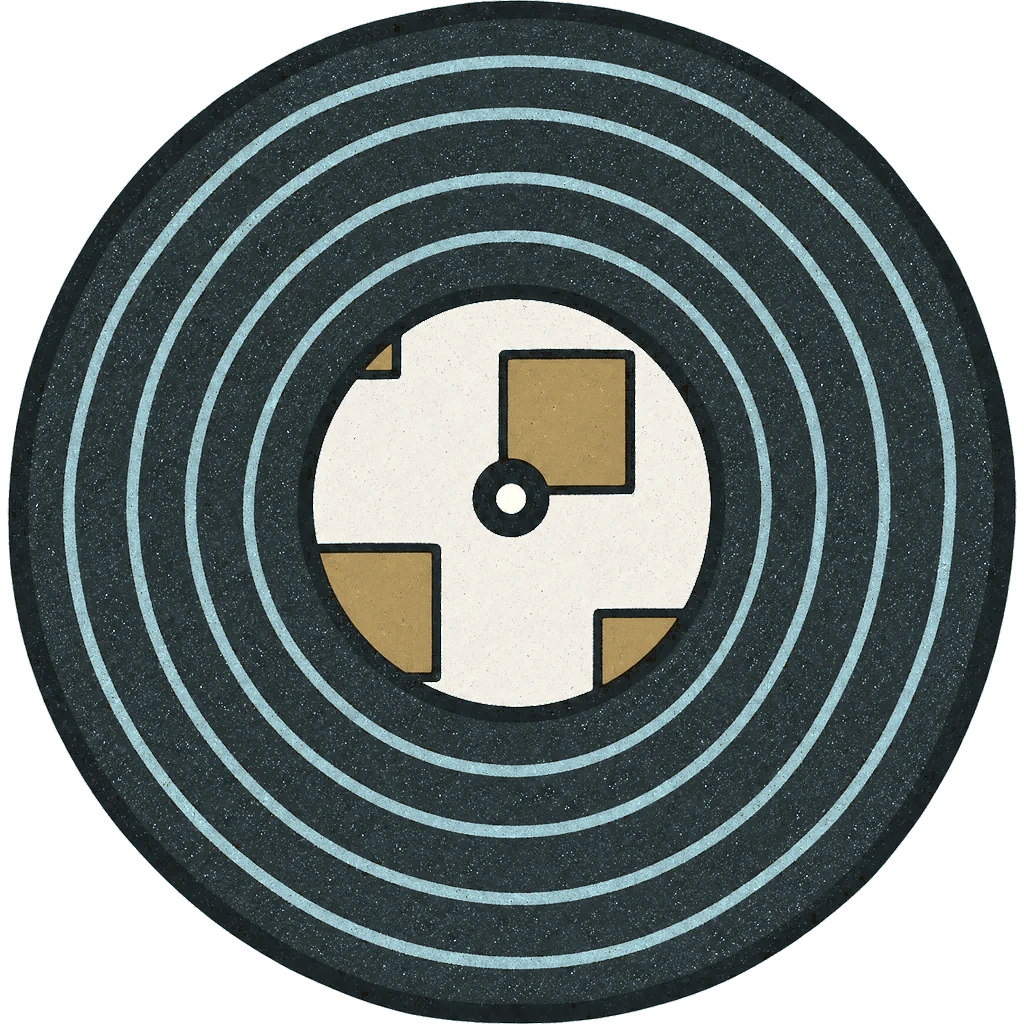
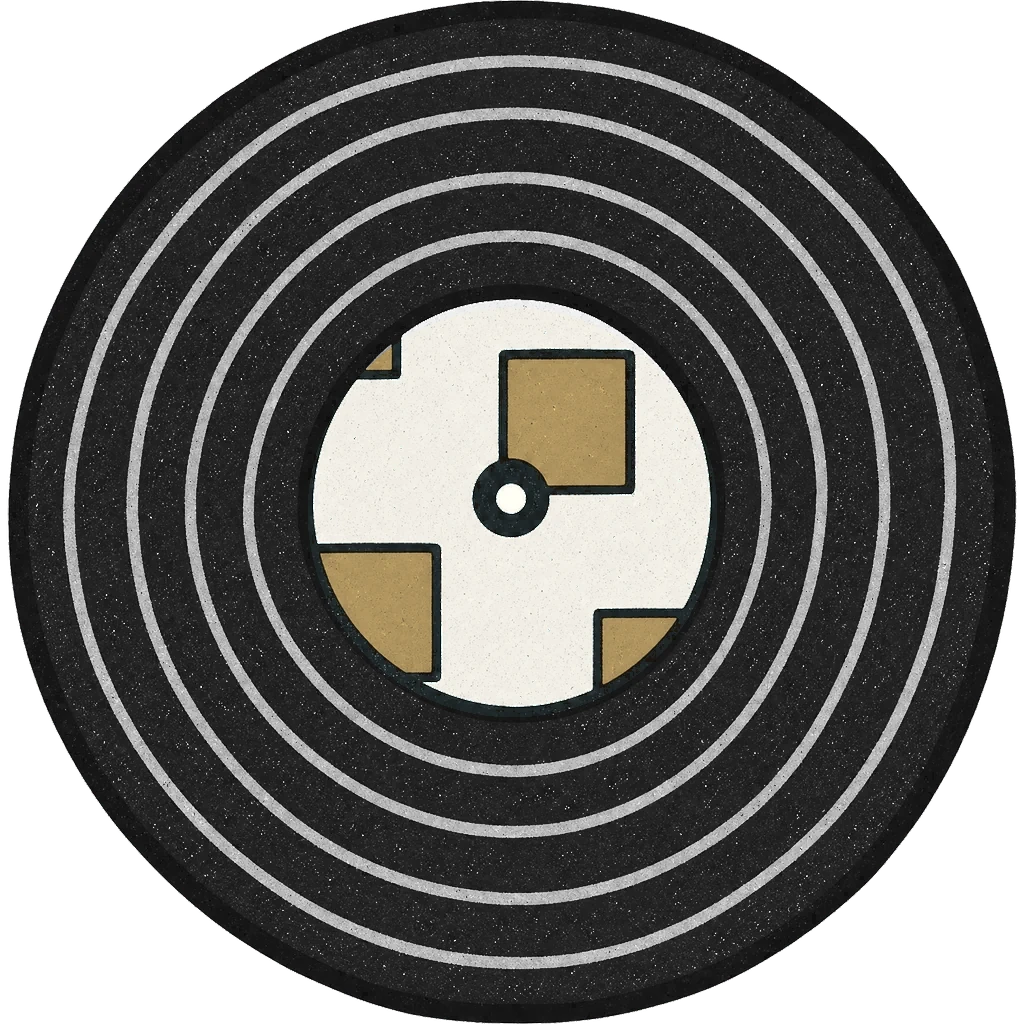
A neutral black record with grey rings
Claude-Session: https://claude.ai/code/session_01EmtaLy7HU6RToKMH5GCFKA

Changed region(s): [[0.0312, 0.0, 0.9688, 1.0]]

diff --git a/tools/vinyl_art.py b/tools/vinyl_art.py
@@ -45,6 +45,18 @@ def recolour(src, dst, warm, warm_from):
 
 # The deck itself is drawn in code now (vinyl-player.js, THE DECK DRAWN IN CODE), so no plinth.webp is made.
 recolour(kit / "record.webp", "record.webp", OCHRE, (210, 112, 40))  # the label's orange squares
+
+# A NEUTRAL BLACK RECORD: "Yeah neutral black record" (Carl, 11 Nov 2026), asked whether it should be the page's charcoal,
+# which leans blue-green, its rings more so. Outside the label (covered by the song's cover anyway) every colour goes
+# grey, keeping its lightness, and the vinyl's own middle tone becomes #222.
+r = np.array(Image.open(out / "record.webp").convert("RGBA")).astype(float)
+h, w = r.shape[:2]; yy, xx = np.mgrid[:h, :w]; rad = np.hypot(xx - w / 2, yy - h / 2) / (w / 2)
+outside = (rad > 0.40) & (r[..., 3] > 0)
+g = lum(r[..., :3])
+body = outside & (g < 120) & (r[..., 3] > 200)
+k = 0x22 / np.median(g[body])
+r[outside, :3] = np.clip(np.where((g[outside] < 120)[:, None], g[outside, None] * k, g[outside, None]), 0, 255)
+Image.fromarray(r.astype("uint8"), "RGBA").save(out / "record.webp", quality=90)
 recolour(kit / "tonearm.webp", "tonearm.webp", OCHRE, (236, 194, 98))  # the yellow
 
 svg = mark_svg.read_text().replace('fill="currentColor"', 'fill="#fff"').replace("<svg", '<svg style="width:400px"', 1)

diff --git a/CLAUDE.md b/CLAUDE.md
@@ -149,6 +149,9 @@ relative so the same page works there; its form only says it is a preview.
   mobile?" (Carl, 11 Nov 2026).
 - The slip mat darker, #26363f (was #364e5b), and the centre post bigger with a ring of 3: "Can you make the slip mat
   darker and the center post circle a bit thicker?" (Carl, 11 Nov 2026).
+- The record is neutral black (#222 at its middle tone), its rings neutral grey: "Yeah neutral black record" (Carl, 11 Nov
+  2026), asked whether it should be the page's charcoal, which leans blue-green. The one colour outside his set, on purpose
+  (`tools/vinyl_art.py`, A NEUTRAL BLACK RECORD).
 - Each video plays while it's on screen and pauses off it; one coming into view for the first time goes back to its first
   frame (its poster) and plays from there. The one by the contact form had played from page open, off screen, and jumped
   as it came in: "The video by the contact form" (Carl, 10 Nov 2026, of the glitch he saw "right on load"). Both keep
